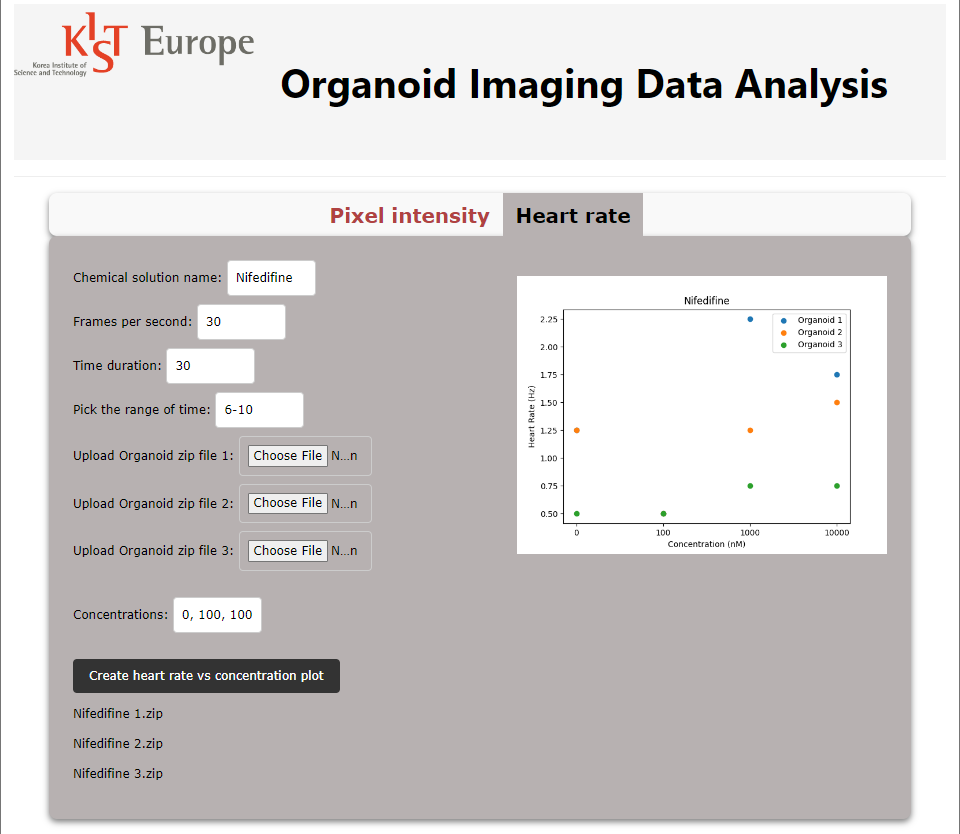
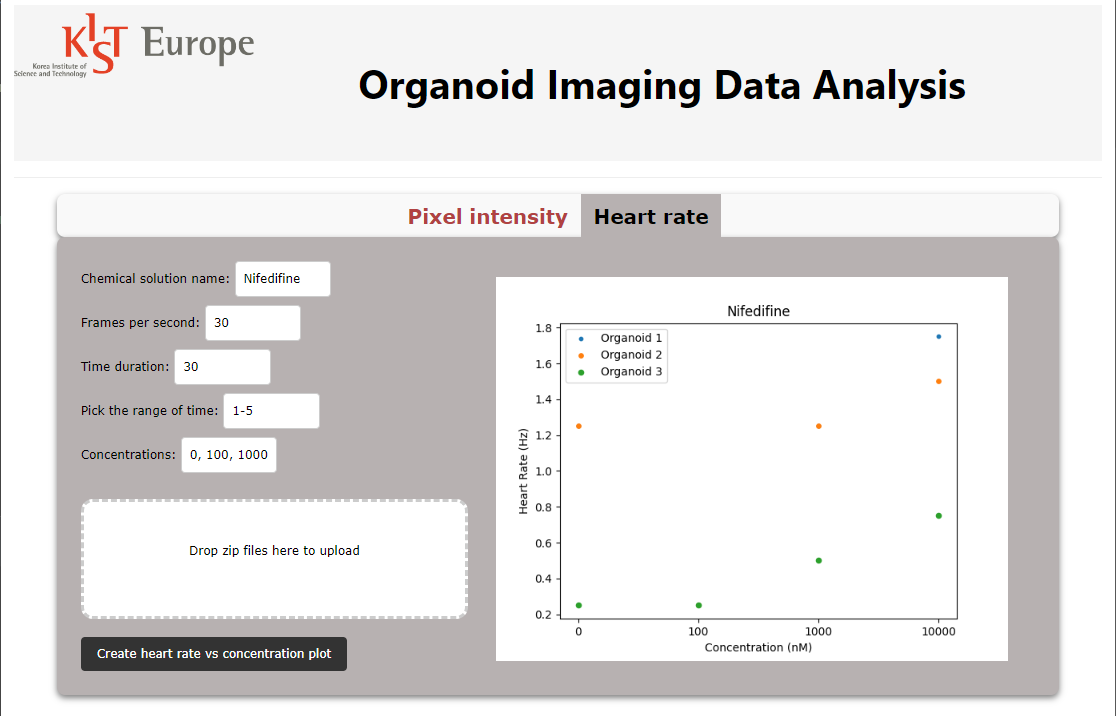
dropzone.js

diff --git a/app/static/features.js b/app/static/features.js
@@ -44,7 +44,7 @@ Dropzone.options.dropper1 = {
     acceptedFiles: ".zip",
     url: "/intensity",
     dictDefaultMessage: "Drop zip files here to upload",
-    maxFilesize: '4GB',
+    maxFilesize: '10GB',
     chunkSize: 90000000000000, // bytes
 
     init: function() {
@@ -71,6 +71,21 @@ Dropzone.options.dropper2 = {
     acceptedFiles: ".zip",
     url: "/rate",
     dictDefaultMessage: "Drop zip files here to upload",
-    maxFilesize: 4096, // megabytes
-    chunkSize: 90000000000000 // bytes
+    maxFilesize: '10GB',
+    chunkSize: 90000000000000, // bytes
+    init: function() {
+        this.on("sending", function(file, xhr, formData) {
+            // Append additional form data
+            formData.append('chemical2', document.getElementById('chemical2').value);
+            formData.append('fps2', document.getElementById('fps2').value);
+            formData.append('time1_textbox2', document.getElementById('time1_textbox2').value);
+            formData.append('time2_textbox2', document.getElementById('time2_textbox2').value);
+            formData.append('textbox', document.getElementById('textbox').value);
+        });
+        this.on("success", function (file, response) {
+            // Handle success, you can update UI or display a message
+            console.log(response.message);
+            file.previewElement.classList.add("dz-success");
+        });
+    }
 };

diff --git a/app/templates/index.html b/app/templates/index.html
@@ -11,9 +11,6 @@
     </head>
 
 
-
-
-
     <body>
 
         <div class="w3-container">

diff --git a/app/flask_app.py b/app/flask_app.py
@@ -10,7 +10,7 @@ import unetsegment
 app = Flask(__name__)
 UPLOAD_FOLDER = 'static/uploads/'
 app.config['UPLOAD_FOLDER'] = UPLOAD_FOLDER
-all_folders = []
+all_folders1, all_folders2 = [], []
 
 
 @app.route('/')
@@ -43,7 +43,7 @@ def intensities():
             folder = os.path.join(extracted_folder_path, fold)
             folder = folder.replace('\\', '/')
             folders.append(folder)
-        all_folders.append(folders)
+        all_folders1.append(folders)
 
     # textbox to enter chemical
     chemical = request.form['chemical1']
@@ -59,18 +59,17 @@ def intensities():
     times = [str(x.strip()) for x in ''.join(time2).split('-')]
 
     # Creating an instance of class
-    us1 = unetsegment.Unet(all_folders, chemical, fps, time, times)
+    us1 = unetsegment.Unet(all_folders1, chemical, fps, time, times)
 
-    print(all_folders)
+    print(all_folders1)
     print(time)
-    print(request.form)
 
     # Code to handle button click
     if request.form.get('action') == "Create mean intensity plots":
         plot1 = us1.display_intensity_plot()
 
     return render_template('index.html',
-                           plot_heartrate=plot1,
+                           intensity_plots=plot1,
                            chemical1=chemical,
                            fps1=fps,
                            time1=time,
@@ -80,12 +79,11 @@ def intensities():
 @app.route('/rate', methods=['GET', 'POST'])
 def rates():
     plot2 = None
-    all_folders = []
     zip_files = request.files.getlist('zipfile')
-    print(zip_files)
 
     # Extract the contents of the zip file
     for zip_file in zip_files:
+        print(zip_file.filename)
         file_path = os.path.join(app.config['UPLOAD_FOLDER'], secure_filename(zip_file.filename))
         zip_file.save(file_path)
 
@@ -102,7 +100,7 @@ def rates():
             folder = os.path.join(extracted_folder_path, fold)
             folder = folder.replace('\\', '/')
             folders.append(folder)
-        all_folders.append(folders)
+        all_folders2.append(folders)
 
     # textbox to enter chemical
     chemical = request.form['chemical2']
@@ -122,7 +120,10 @@ def rates():
 
     # Creating an instance of class
     # s1 = segment.Segmentation(all_folders, chemical, fps, time, times)
-    us1 = unetsegment.Unet(all_folders, chemical, fps, time, times)
+    us1 = unetsegment.Unet(all_folders2, chemical, fps, time, times)
+
+    print(all_folders2)
+    print(time)
 
     # Code to handle button click
     if request.form.get('action') == "Create heart rate vs concentration plot":

diff --git a/app/unetsegment.py b/app/unetsegment.py
@@ -19,7 +19,7 @@ class Unet:
         self.fps = int(fps)
         self.time = int(time)
         self.t_range = t_range
-        self.model = load_model('C:/Users/annma/PycharmProjects/calcium-gui/U-Net/updated_unet.h5', compile=False, custom_objects={
+        self.model = load_model('D:/ann/calcium-gui/U-Net/updated_unet.h5', compile=False, custom_objects={
                           'mean_iou': self.mean_iou, 'dice_coefficient': self.dice_coefficient, 'pixel_wise_accuracy': self.pixel_wise_accuracy})
 
 

diff --git a/README.md b/README.md
@@ -9,6 +9,7 @@ with that imaging data, intensity plot and heart rate vs concentration plots are
 
 OpenCV, Flask, NumPy, Scipy, Matplotlib.
 
+![image](app/static/uploads/flaskapp0.png)
 ![image](app/static/uploads/flaskapp1.png)
 ![image](app/static/uploads/flaskapp2.png)
 
